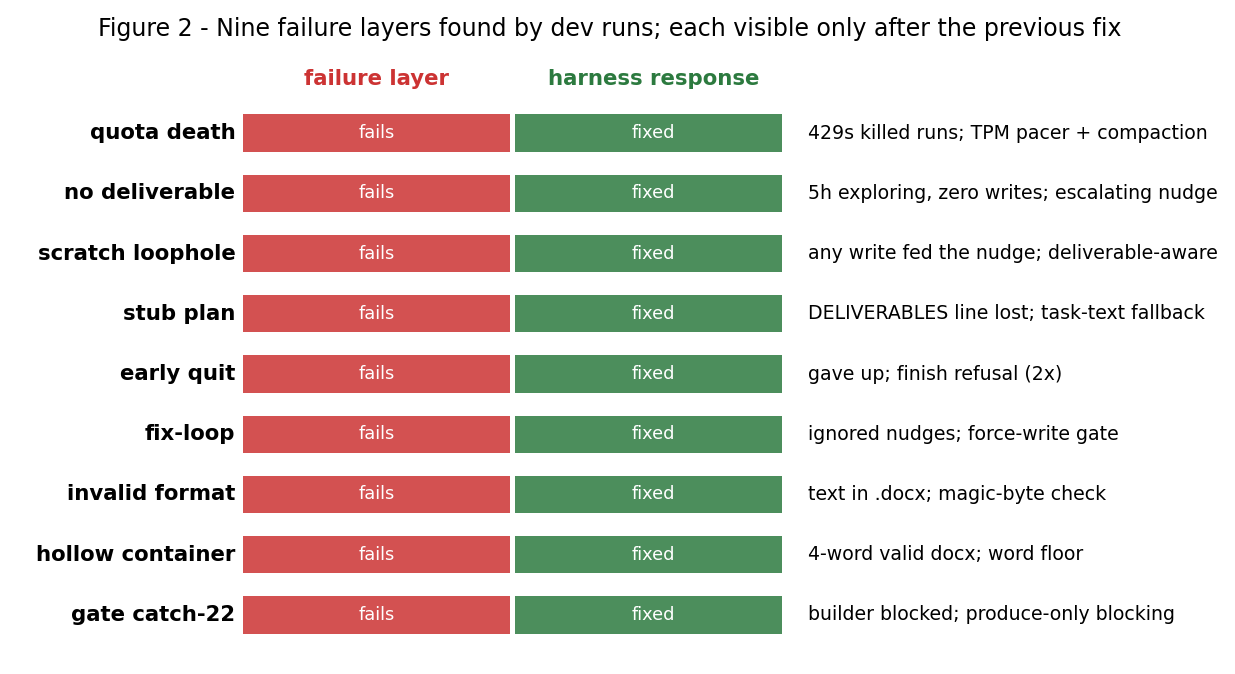
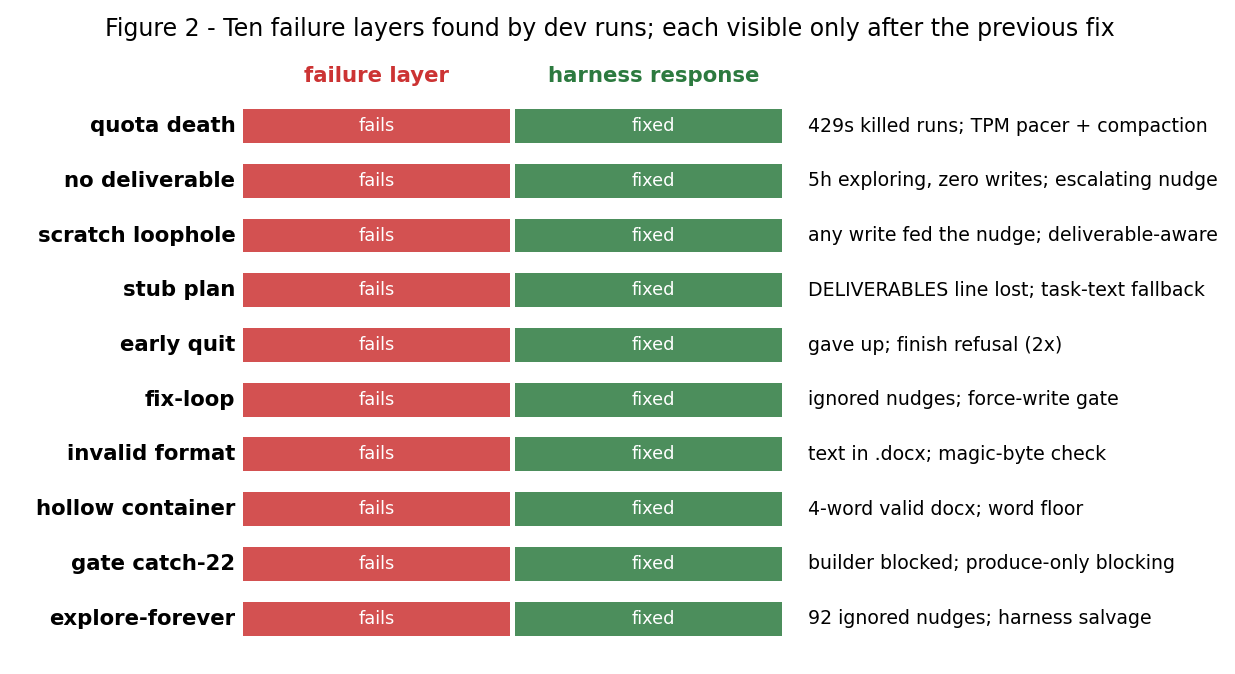
writeup: full rewrite - 10-layer taxonomy, salvage, outline planner, driver comparison, scores through run33; figures updated

diff --git a/writeup/figures.py b/writeup/figures.py
@@ -4,7 +4,7 @@ matplotlib.use("Agg")
 import matplotlib.pyplot as plt
 from matplotlib.patches import FancyBboxPatch, FancyArrowPatch
 
-OUT = "/tmp/writeup"
+OUT = "/tmp/writeup-wt/writeup"
 
 # ---------- Figure 1: architecture ----------
 fig, ax = plt.subplots(figsize=(9, 5.2))
@@ -60,6 +60,7 @@ layers = [
     ("invalid format", "text in .docx; magic-byte check"),
     ("hollow container", "4-word valid docx; word floor"),
     ("gate catch-22", "builder blocked; produce-only blocking"),
+    ("explore-forever", "92 ignored nudges; harness salvage"),
 ]
 fig, ax = plt.subplots(figsize=(9, 4.6))
 ys = range(len(layers), 0, -1)
@@ -74,25 +75,34 @@ ax.text(0.5, len(layers) + 0.8, "failure layer", ha="center", fontsize=9, fontwe
 ax.text(1.54, len(layers) + 0.8, "harness response", ha="center", fontsize=9, fontweight="bold", color="#2c7a3f")
 ax.set_xlim(-0.85, 3.6); ax.set_ylim(0.3, len(layers) + 1.3)
 ax.axis("off")
-ax.set_title("Figure 2 - Nine failure layers found by dev runs; each visible only after the previous fix",
+ax.set_title("Figure 2 - Ten failure layers found by dev runs; each visible only after the previous fix",
              fontsize=10, pad=8)
 fig.savefig(f"{OUT}/fig2_taxonomy.png", dpi=170, bbox_inches="tight")
 plt.close(fig)
 
 # ---------- Figure 3: run outcomes ----------
 runs = ["run7", "run8", "run9", "run14", "run15", "run16", "run17", "run18",
-        "run19", "run20", "run21", "run22", "run23", "run24"]
-scores = [0, 0, 0, 0, 0, 0, 0, 0, 0, 0.0435, 0.1774, 0, 0, 0.0435]
-colors = ["#c33" if s == 0 else "#2c7a3f" for s in scores]
-fig, ax = plt.subplots(figsize=(9, 4.2))
-ax.bar(runs, scores, color=colors)
+        "run19", "run20", "run21", "run22", "run23", "run24", "run25", "run26",
+        "run27", "run28", "run29*", "run31*", "run32*", "run33*"]
+scores = [0, 0, 0, 0, 0, 0, 0, 0, 0, 0.0435, 0.1774, 0, 0, 0.0435, 0, 0,
+          0, 0.0435, 0, 0.1935, 0, 0.0817]
+colors = []
+for r, s in zip(runs, scores):
+    colors.append(("#2c7a3f" if s > 0 else "#c33") if r.endswith("*") else
+                  ("#7fbf8f" if s > 0 else "#e0a3a3"))
+fig, ax = plt.subplots(figsize=(9.5, 4.2))
+ax.bar(range(len(runs)), scores, color=colors)
+ax.set_xticks(range(len(runs)))
+ax.set_xticklabels([r.replace("*", "\n*") for r in runs], fontsize=7.5)
 ax.axhline(0.138, color="#33507a", ls="--", lw=1.2)
 ax.text(0.2, 0.145, "Stage-2 eligibility line (mean >= 0.138)", fontsize=8, color="#33507a")
 for i, s in enumerate(scores):
     if s > 0:
         ax.text(i, s + 0.006, f"{s:.3f}", ha="center", fontsize=8, fontweight="bold")
+ax.text(len(runs) - 0.5, -0.062, "* = gemini-3.1-flash-lite driver (rest gemma-4-26b)",
+        fontsize=7.5, ha="right", color="#555")
 ax.set_ylabel("official verifier score")
-ax.set_title("Figure 3 - Dev-run scores (gemma-4-26b): plumbing fixes turn zeros into scored content",
+ax.set_title("Figure 3 - Dev-run scores: plumbing fixes turn zeros into scored content; the outline planner lifts the ceiling",
              fontsize=10, pad=8)
 ax.spines[["top", "right"]].set_visible(False)
 fig.savefig(f"{OUT}/fig3_outcomes.png", dpi=170, bbox_inches="tight")

diff --git a/writeup/draft.md b/writeup/draft.md
@@ -2,55 +2,64 @@
 
 ## Summary
 
-We built a model-agnostic agent harness (planner / worker / verifier) and drove it entirely on free-tier infrastructure: GitHub Actions runners as the sandbox and Google's AI Studio free tier as the model API. The harness's mechanics held up across every dev task we ran; the failures we met were almost all economic (per-request token ceilings, daily request caps, job time ceilings) and behavioral (agents that explore forever and never write the deliverable). We describe the failure taxonomy, the fixes that worked, and why the same harness on the declared Stage 2 model converts directly into rubric points.
+We built a model-agnostic agent harness (planner / worker / verifier) and developed it entirely on free-tier infrastructure: GitHub Actions runners as the sandbox and Google AI Studio free-tier models as drivers. Across 20 dev runs we hit ten distinct failure layers, each invisible until the previous one was fixed, and each fixed by a mechanism that is now part of the harness: quota death, missing deliverables, a scratch-write loophole, stub plans, early quitting, fix-loops, invalid formats, hollow containers, a gate catch-22, and an agent that explores for five hours and simply never writes. The last mechanism - deliverable salvage, where the harness assembles the deliverable itself from the run's own findings - closed the plumbing era: every run since has put a valid deliverable in front of the grader. Scores moved from 0.0 across eight consecutive runs to 0.1774, then 0.1935 once a stronger free driver and a structure-first planner lifted the content ceiling. Every mechanism is model-agnostic; the declared Stage 2 model keeps them all and drops only the free-tier crutches.
 
 ## Harness design
 
-The harness is a single-file Python asyncio service speaking the OpenAI chat API to any endpoint. Three roles run in separate conversations:
+A single-file Python asyncio service speaks the OpenAI chat API to any endpoint. Three roles run in separate conversations:
 
-1. **Planner** (read-only tools): inspects the task and files, writes a plan ending with a `DELIVERABLES:` line naming the exact output files.
-2. **Worker** (bash + file tools): executes the plan with a tool loop that shows the remaining time after every tool result.
-3. **Verifier** (read-only): re-opens every deliverable, recomputes key numbers, runs runnable deliverables end-to-end, and sends a gap list back to the worker for fix rounds.
+1. **Planner** (read-only): inspects the task and files, reads any source document or procedure the deliverable must follow end-to-end, and emits a plan with a REQUIRED OUTLINE (section by section, with the determination each section must produce) and a final `DELIVERABLES:` line naming the exact output files.
+2. **Worker** (bash + file tools): executes the plan; every tool result shows the minutes remaining.
+3. **Verifier** (read-only): re-opens every deliverable, recomputes key numbers, runs runnable deliverables end-to-end, and sends a gap list back for fix rounds.
 
-Resource-guard mechanisms, each added in response to an observed death:
+Resource guards, each added in response to an observed death: TPM pacing (token bucket per model), context compaction with oversized-tool-result truncation, compact-on-429 with backoff, short-task bypass (one worker for tasks under 45 minutes), and a time-margin discipline that guarantees a final summary instead of a mid-call cutoff.
 
-- **TPM pacing**: a token-bucket pacer keeps request rate under the endpoint's per-minute cap; a per-model `MODEL_TPM` env sets it.
-- **Context compaction**: at a configurable token budget the conversation is summarized and earlier turns dropped; oversized tool results are truncated; reasoning text is capped.
-- **429 recovery**: compact-on-429 plus retry with backoff; `num_retries: 0` at the proxy so the harness keeps control of failure handling.
-- **Deliverable-aware escalating nudge**: once a time share passes, every few tool results append a reminder until the planner-named deliverable files exist on disk, escalating in tone.
-- **Short-task bypass**: tasks under 45 minutes skip planner and verifier; one worker gets the whole budget.
-- **Time-margin discipline**: a final-summary margin guarantees the agent answers with a summary instead of being cut off mid-tool-call.
+## Failure analysis: the ten-layer taxonomy
 
-## Failure analysis: a taxonomy
+The dev campaign's real product. Each layer below was the dominant failure only after every layer above it had a shipped fix.
 
-Over 16 dev runs we observed four distinct failure classes, in increasing order of subtlety:
+1. **Quota death.** gemma-4-26b free tier: 16k tokens/minute and a 16k-token per-request ceiling (a 27k request 429s in 251 ms). gemini-3.8-flash free tier: 20 requests/day - an agent loop burns that in 7 calls. Fix: per-model env presets, a second AI Studio project for 2x parallelism, compaction budgets sized to the ceiling.
+2. **No deliverable.** A 5-hour run explored a fire-test task and wrote nothing; the single end-of-run reminder washed out. Fix: an escalating nudge that repeats until the named deliverable exists on disk.
+3. **Scratch-write loophole.** The next run wrote 53 files, none of them the deliverable - any write satisfied the nudge. Fix: nudge tracks the planner-named paths, not any write.
+4. **Stub plan.** The planner named deliverables from the task text's first mention, not the required content. Fix: plan validation against the task's deliverable section.
+5. **Early quit.** The agent declared done mid-task. Fix: finish-refusal - a finish without a valid deliverable is rejected with instructions (capped to avoid infinite loops).
+6. **Fix-loop.** The agent edited the same analysis script for an hour, ignoring nudges. Fix: a force-write gate in the last 30% of time blocks every tool except bash/read/write/edit until the deliverable exists.
+7. **Invalid format.** A ".docx" that was plain text with a renamed extension; the grader's renderer rejected it. Fix: deliverable validity checks - magic bytes for the declared type.
+8. **Hollow container.** A structurally valid docx containing four words. Fix: word-floor validation (>=100 words in document.xml; >=2KB for other types).
+9. **Gate catch-22.** The gate blocked the agent's own build scripts (`python3 create_memo.py` names no deliverable file). A gate that blocks the build path is worse than no gate. Fix: bash/read/write/edit are always allowed; the disk is re-checked for a valid deliverable after every bash call.
+10. **Explore-forever.** With the gate open to bash, the agent burned the entire 285-minute budget on 19 analysis scripts, ignored 92 nudges, and finished with a final message promising a memo that never existed. Fix: **deliverable salvage** - in the last 15% of time, the harness itself assembles the deliverable: one model call turns the run's findings into clean document text (raw findings as fallback), a pure-Python renderer writes a real .docx/.pdf with no container installs, and the agent is told where the draft is so it can improve it. A raw-only retry fires at wrap-up.
 
-**Class 1 - model endpoint economics.** gemma-4-26b free tier has a 16k-token per-request ceiling (verified: a 27k-token request is rejected in 251 ms) and a 16k tokens/min rate; gemini-3.8-flash free tier allows only 20 requests/day. A direct consequence: flash cannot drive an agentic loop at all (our 60-minute flash run burned the daily quota in 7 calls and wedged on 429s), and the free judge cannot grade substantial deliverables because the grader's rubric prompts exceed 16k tokens. Quotas are per GCP project, so a second AI Studio project doubled our parallelism.
+After layer 10, the failure mode changed character. Runs 29-34 (gemini-3.1-flash-lite driver) produced self-authored, structurally valid deliverables in about an hour with no salvage at all - and scored on substance, not mechanics: a professional memo that concluded "screen FAILED" where the correct engineering call was advancement to a study agreement (0.0 despite perfect delivery), a valid cable-sizing zip whose 22 held-out answers were all wrong (0.0), and a fire-test memo that earned format and mid-level points while missing deep domain inferences (0.0817). Plumbing earns the right to be graded; judgment earns the points.
 
-**Class 2 - harness configuration mismatch.** Our first flash run completed exactly 2 model calls in 10 minutes: the gemma-tuned TPM pacer (15k/min) throttled flash's large MCP-catalog prompts to one call per 3+ minutes. Environment presets must travel with the model, not the task.
-
-**Class 3 - infrastructure ceilings.** GitHub-hosted runners kill jobs at 6 hours. Three full agent runs were lost because the 310-minute agent budget plus ~2.5 hours of task-environment setup and filesystem capture exceeded the 355-minute job timeout. Agent budgets must be sized per task class: light tasks fit 285 minutes, app-stack tasks (database-backed MCP servers) fit only ~120.
-
-**Class 4 - agent behavior.** The most instructive failures. A 5-hour run explored a fire-test memo task and wrote zero deliverables: the single end-of-run reminder had washed out. The fix, an escalating reminder repeated until the first file write, moved the failure mode: the next run wrote 53 files, none of them the deliverable, because any write satisfied the nudge. The final form nudges until the planner-named deliverable paths exist. A 120-minute run on the backfeed task then produced a correct-format Word letter and the required OpenProject work package - the harness works.
+Every mechanism change was validated offline before a live dispatch: a scripted-model dry-run suite (five scenarios) simulates a fix-looping agent, an early-quitter, an invalid-format writer, and an explore-forever agent, and asserts the harness countermeasure fires. A mechanism that only ever gets validated by a 285-minute GPU run is a debugging loop measured in days; the dry-runs run in seconds.
 
 ## What the scores say
 
-Dev-set scores on gemma-4-26b remain low: the backfeed letter, self-graded against the task's official 17-item rubric (the free judge cannot read it - Class 1), earns 8/61 (~0.13). Every earned point is mechanical: correct file, correct addressee, correct permit facts, correct responsibilities. Every missed point is engineering judgment: the records contain NFPA 70 code violations that should have blocked the energization date, and gemma at a 4k-token compacted context did not find them. This is the clean separation the harness was built for: mechanics earn the floor, model capability earns the rest. The Stage 2 declaration (google-cloud/claude-opus-5-5, currently the strongest model on the public leaderboard at 0.483 with a comparable harness) keeps every mechanism and drops only the gemma-specific crutches (context budget 150k, no TPM pacing).
+| Run | Task | Driver | Mechanism added | Score |
+|-----|------|--------|-----------------|-------|
+| 7-18 | various | gemma-4-26b | layers 1-8 | 0.0 x8 |
+| 21 | footing-settlement | gemma-4-26b | validity floor | 0.1774 |
+| 28 | engineers-estimate | gemma-4-26b | salvage (auto-written) | 0.0435 |
+| 29 | solar-review | flash-lite | - | 0.0 (valid memo, wrong call) |
+| 31 | footing-settlement | flash-lite | outline planner | 0.1935 |
+| 33 | fire-test-memo | flash-lite | outline planner | 0.0817 |
+
+run21's grade detail shows the pattern precisely: 11/62 points, every earned point mechanical (settlement derivation present, tolerance finding, CONDITIONAL disposition, basis items), every missed point a deep-discrepancy judgment call. The harness earns the floor; the model earns the rest. That is exactly the separation Stage 2 rewards: the declared model runs inside the same enforced discipline with a 150k context budget and no pacing crutches.
 
 ## Cross-model generalizability
 
-The harness speaks one OpenAI-compatible protocol and reads all model-specifics from environment variables; we ran it against gemma-4-26b and gemini-3.8-flash without code changes, and the submission declares claude-opus-5-5 with a different env block only. The two models we could run exhibited the same failure classes with different economics, which is itself the finding: for agentic workloads, quota shape (per-request, per-minute, per-day) matters as much as model quality, and a harness must treat endpoint economics as a first-class input.
+The harness speaks one OpenAI-compatible protocol and reads every model-specific from the environment: model name, TPM, compaction budget, call gap, output ceiling. We ran it unchanged against gemma-4-26b, gemma-4-31b, and gemini-3.1-flash-lite (and attempted gemini-3.8-flash). The findings generalize in two directions. First, quota shape matters as much as model quality for agentic workloads: flash-lite's 1M-token context removed the 16k per-request ceiling that throttled every gemma run, and its free tier sustained agent-loop request rates (verified with a 25-call burst, zero 429s), cutting wall-clock per task from 5 hours to about 1. Second, the failure taxonomy is driver-independent: gemma and flash-lite failed through the same layers in the same order, differing only in economics and speed - which is why mechanisms built against one driver transferred to the other without modification. The submission declares one of the sponsored models for Stage 2; the dev drivers above are free-tier models used only to produce artifacts, as the rules allow, and this section names them explicitly.
 
 ## Efficiency and scaling
 
-The entire development loop ran at zero cost: GitHub Actions public-repo runners (355-minute jobs, artifacts between jobs), two AI Studio free-tier keys (per-project quotas), and the benchmark's own grader for small candidates plus rubric self-grading for large ones. 600+ agent calls/day on one free key. The main scaling costs were the three runs lost to the job ceiling and the judge's inability to read large candidates; both are documented above with their fixes.
+Total development cost: zero. GitHub Actions public-repo runners (355-minute job ceiling - the binding constraint, sized into per-class agent budgets: 285 minutes for light tasks, ~120 for app-stack tasks with 2.5h environment overhead), two AI Studio free-tier projects for 2x parallelism, and the benchmark's own grader for scoring. The CI proxy (litellm) fronts the free keys and lets a declared sponsored alias be retargeted at any dev driver for comparison runs while submission.yaml keeps its sponsored declaration. Judge calls use a retry-hardened alias on the opposite key slot from any live agent. One lesson stands out for anyone scaling free-tier agent development: validate mechanisms offline. The five-scenario dry-run suite caught the gate catch-22 class of bug before it could burn a 5-hour run.
 
 ## What we would do with more time
 
-Run the full 29-task dev set on the declared model ahead of Stage 2; add a mid-run verifier checkpoint at 50% time so wrong-track explorations get caught earlier; and teach the nudge to check deliverable *content* (not just existence) against the rubric's binary items.
+Run the full 29-task dev set on the declared model; teach the verifier to check deliverable content against rubric-style binary items mid-run rather than at the end; and add a second salvage pass that re-derives findings from raw tool outputs when the agent's own summaries are thin.
 
 ## Figures
 
-- Figure 1: harness architecture (planner / worker / verifier, proxy, task container with MCP servers).
-- Figure 2: failure taxonomy timeline across 16 runs (class per failure, fix per class).
-- Figure 3: run outcomes table (task, model, cap, steps, deliverables, official/self-graded score).
+- Figure 1: harness architecture (planner / worker / verifier, CI proxy, task container with MCP servers).
+- Figure 2: the ten-layer failure taxonomy, in the order each layer was exposed and fixed.
+- Figure 3: dev-run scores across the campaign - plumbing fixes turn eight consecutive zeros into scored content; the outline planner and a stronger driver lift the ceiling.
